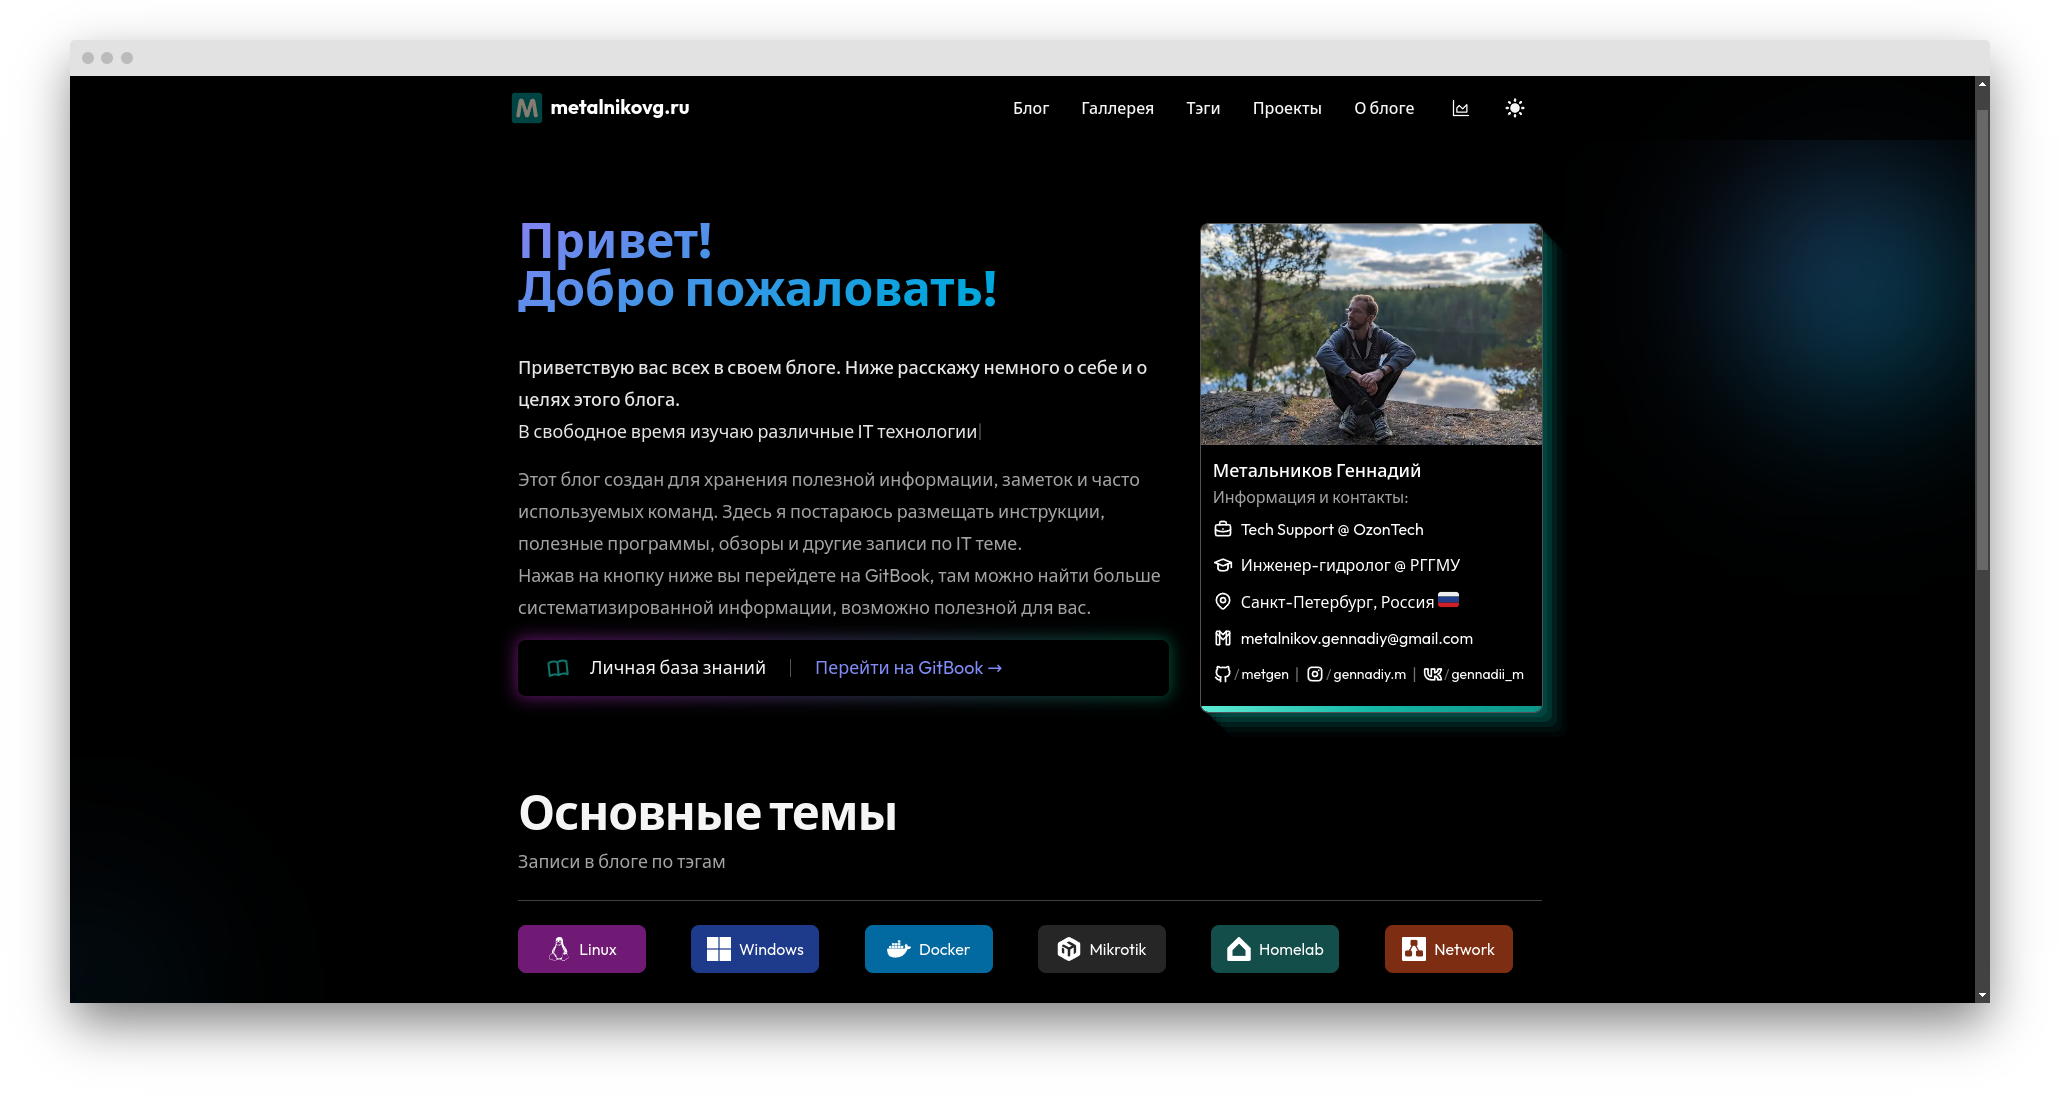
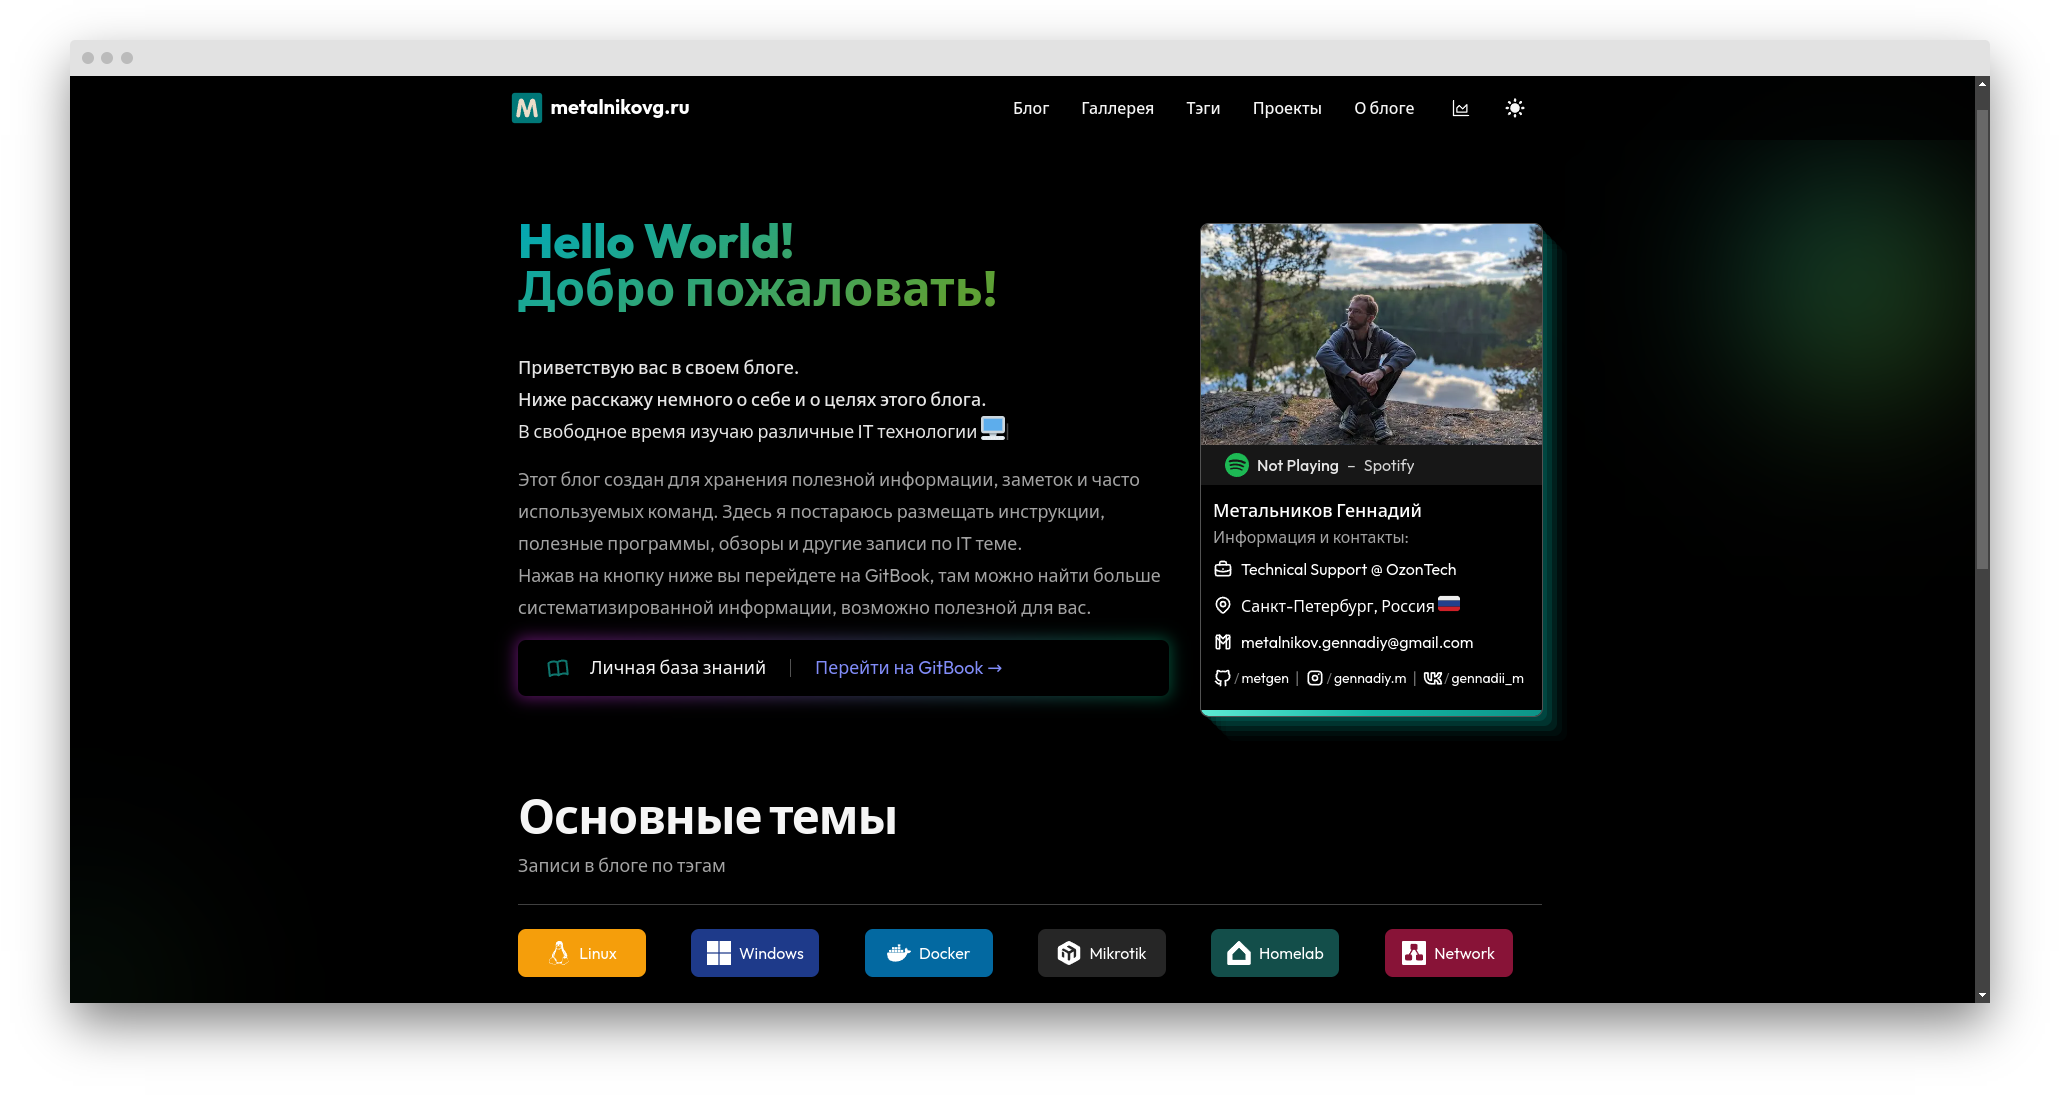
change some discription

diff --git a/components/homepage/TypedBios.tsx b/components/homepage/TypedBios.tsx
@@ -24,24 +24,18 @@ const TypedBios = () => {
         <li>
           Меня зовут <b className="font-medium">Геннадий</b>
         </li>
+        <li>Я работаю специалистом технической поддержки</li>
         <li>
-          Я живу в <b className="font-medium">Санкт-Петербурге</b>
-        </li>
-        <li>В свободное время изучаю различные IT технологии</li>
-        <li>
-          Сейчас занимаюсь изучением <b className="font-medium">OS Linux</b> <Twemoji emoji="penguin" />
+          В свободное время изучаю различные IT технологии <Twemoji emoji="desktop computer" />
         </li>
         <li>
-          Играю в видеоигры <Twemoji emoji="video-game" />
+          Нравится учиться и получать новые знания в данной области <Twemoji emoji="books" />
         </li>
         <li>
-          Катаюсь на велосипеде <Twemoji emoji="bicycle" />
+          Пишу инструкции, полезные заметки, интересные статьи <Twemoji emoji="scroll" />
         </li>
         <li>
-          Немного путешествую <Twemoji emoji="palm-tree" />
-        </li>
-        <li>
-          Увлекаюсь мобильной фотографией <Twemoji emoji="frame-with-picture" />
+          Увлекаюсь видеоиграми <Twemoji emoji="video-game" />
         </li>
       </ul>
       <span ref={el} className="text-neutral-900 dark:text-neutral-200" />

diff --git a/layouts/PostLayout.tsx b/layouts/PostLayout.tsx
@@ -127,7 +127,7 @@ export default function PostLayout({ content, authorDetails, next, prev, childre
                     {prev && (
                       <div>
                         <h2 className="text-xs uppercase tracking-wide text-gray-500 dark:text-gray-400">
-                          Предыдущая статья
+                          Предыдущая запись
                         </h2>
                         <div className="text-primary hover:text-sky-600 dark:hover:text-sky-400">
                           <Link href={`/${prev.path}`}>{prev.title}</Link>
@@ -137,7 +137,7 @@ export default function PostLayout({ content, authorDetails, next, prev, childre
                     {next && (
                       <div>
                         <h2 className="text-xs uppercase tracking-wide text-gray-500 dark:text-gray-400">
-                          Следующая статья
+                          Следующая запись
                         </h2>
                         <div className="text-primary hover:text-sky-600 dark:hover:text-sky-400">
                           <Link href={`/${next.path}`}>{next.title}</Link>

diff --git a/components/homepage/Heading.tsx b/components/homepage/Heading.tsx
@@ -5,7 +5,8 @@
 const Heading = () => {
   return (
     <h1 className="font-medium text-neutral-900 dark:text-neutral-200">
-      Приветствую вас всех в своем блоге. Ниже расскажу немного о себе и о целях этого блога.{' '}
+      <p>Приветствую вас в своем блоге.</p>
+      <p>Ниже расскажу немного о себе и о целях этого блога.</p>
       <span className="hidden">Санкт-Петербург, Россия</span>
       <span className="absolute ml-1.5 inline-flex pt-[3px]"></span>
     </h1>

diff --git a/components/Footer.tsx b/components/Footer.tsx
@@ -9,7 +9,7 @@ export default function Footer() {
         <div className="my-2 flex space-x-2 text-sm text-gray-500 dark:text-gray-400">
           <div>{`Copyright © ${new Date().getFullYear()}`}</div>
           <span>{` • `}</span>
-          <span>Metalnikovg.ru - Личный блог</span>
+          <span>metalnikovg.ru - Личный блог</span>
         </div>
       </div>
     </footer>

diff --git a/components/homepage/ProfileInfo.tsx b/components/homepage/ProfileInfo.tsx
@@ -19,7 +19,7 @@ const ProfileCardInfo = () => {
         <div className="flex items-center">
           <IconBriefcase size={20} strokeWidth={2} />
           <p className="px-2">
-            Tech Support @{' '}
+            Technical Support @{' '}
             <a className="hover:underline" target="_blank" href="https://ozon.tech/" rel="noreferrer">
               OzonTech
             </a>

diff --git a/data/siteMetadata.js b/data/siteMetadata.js
@@ -3,9 +3,9 @@
 
 const siteMetadata = {
   title: 'Личный блог',
-  author: 'Геннадий',
+  author: 'Метальников Геннадий',
   fullName: 'Метальников Геннадий',
-  headerTitle: 'Metalnikovg.ru',
+  headerTitle: 'Metalnikov Gennadiy',
   description: 'Записи по IT теме',
   language: 'ru-ru',
   theme: 'system',

diff --git a/css/tailwind.css b/css/tailwind.css
@@ -104,7 +104,7 @@ html.lightbox-loading * {
 }
 
 .popular-tags .linux {
-  @apply bg-fuchsia-900;
+  @apply bg-amber-500;
 }
 
 .popular-tags .powershell {
@@ -124,7 +124,7 @@ html.lightbox-loading * {
 }
 
 .popular-tags .network {
-  @apply bg-orange-900;
+  @apply bg-rose-900;
 }
 
 .popular-tags .homelab {

diff --git a/components/homepage/Greeting.tsx b/components/homepage/Greeting.tsx
@@ -2,7 +2,7 @@ const Greeting = () => {
   return (
     <div className="lg:mb-10 lg:mt-3">
       <h1 className="clip text-5xl font-extrabold text-transparent dark:to-blue-500">
-        Привет!
+        Hello World!
         <br />
         Добро пожаловать!
       </h1>
